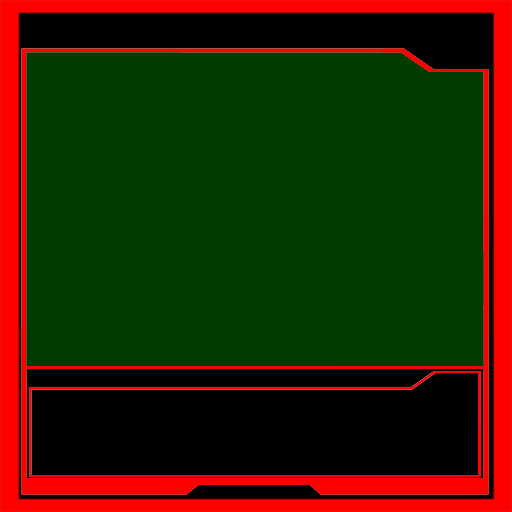
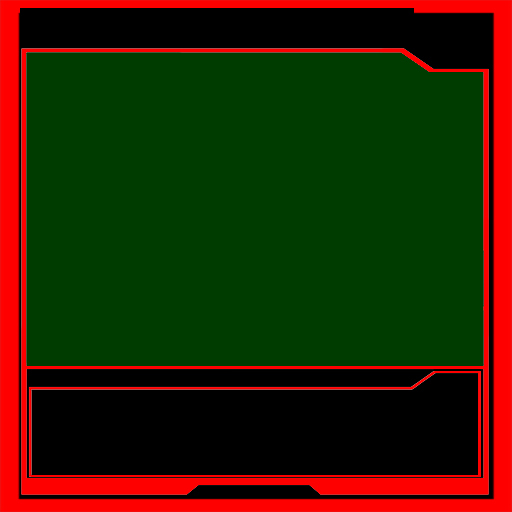
fix: align rarity shading with Rush Duel frames

Changed region(s): [[0.0312, 0.0, 0.8125, 0.0312]]

diff --git a/rarity_shaders.py b/rarity_shaders.py
@@ -1,0 +1,221 @@
+"""Apply Rush Duel rarity title bounds and attribute material mappings.
+
+DXBC uses MD5 with different final-block padding. Format reference:
+https://github.com/wine-mirror/wine/blob/master/libs/vkd3d/libs/vkd3d-shader/checksum.c
+This implementation checks every original checksum before making any change.
+"""
+
+import argparse
+import ctypes
+import hashlib
+import math
+import struct
+from pathlib import Path
+
+import UnityPy
+from UnityPy.helpers import CompressionHelper
+
+
+def dxbc_checksum(code):
+    payload = code[20:]
+    size = len(payload)
+    whole = size // 64 * 64
+    tail = payload[whole:] + b"\x80"
+    if len(tail) > 56:
+        blocks = payload[:whole] + tail.ljust(64, b"\0")
+        final = bytes(56)
+    else:
+        blocks = payload[:whole]
+        final = tail.ljust(56, b"\0")
+    blocks += struct.pack("<I", size * 8) + final + struct.pack("<I", (size * 2) | 1)
+    state = [0x67452301, 0xEFCDAB89, 0x98BADCFE, 0x10325476]
+    rotations = [7, 12, 17, 22] * 4 + [5, 9, 14, 20] * 4 + [4, 11, 16, 23] * 4 + [6, 10, 15, 21] * 4
+    constants = [int(abs(math.sin(i + 1)) * 2**32) for i in range(64)]
+    for offset in range(0, len(blocks), 64):
+        words = struct.unpack_from("<16I", blocks, offset)
+        a, b, c, d = state
+        for i in range(64):
+            if i < 16:
+                f, g = (b & c) | (~b & d), i
+            elif i < 32:
+                f, g = (d & b) | (~d & c), (5 * i + 1) % 16
+            elif i < 48:
+                f, g = b ^ c ^ d, (3 * i + 5) % 16
+            else:
+                f, g = c ^ (b | ~d), (7 * i) % 16
+            value = (a + f + constants[i] + words[g]) & 0xFFFFFFFF
+            value = ((value << rotations[i]) | (value >> (32 - rotations[i]))) & 0xFFFFFFFF
+            a, d, c, b = d, c, b, (b + value) & 0xFFFFFFFF
+        state = [(x + y) & 0xFFFFFFFF for x, y in zip(state, (a, b, c, d))]
+    return struct.pack("<4I", *state)
+
+
+def validate_shader(code):
+    """Ask the Windows shader compiler to parse and validate the new container."""
+    compiler = ctypes.WinDLL("d3dcompiler_47")
+    strip = compiler.D3DStripShader
+    strip.argtypes = [ctypes.c_void_p, ctypes.c_size_t, ctypes.c_uint, ctypes.POINTER(ctypes.c_void_p)]
+    strip.restype = ctypes.c_long
+    output = ctypes.c_void_p()
+    buffer = ctypes.create_string_buffer(code)
+    status = strip(buffer, len(code), 0, ctypes.byref(output))
+    if status < 0:
+        raise ValueError(f"Windows rejected shader container: 0x{status & 0xFFFFFFFF:08x}")
+    table = ctypes.cast(output, ctypes.POINTER(ctypes.POINTER(ctypes.c_void_p))).contents
+    ctypes.WINFUNCTYPE(ctypes.c_uint, ctypes.c_void_p)(table[2])(output)
+
+
+def patch_programs(blob):
+    changes = (
+        # The finish was limited to UV 0.05..0.95, clipping the raised capitals.
+        (struct.pack("<2f", -0.9, -0.9), struct.pack("<2f", -0.98, -0.98)),
+        # Name colour mask: keep its bottom at .89, extend its top from .952 to .99.
+        (struct.pack("<2f", 0.054, -0.421), struct.pack("<2f", 0.054, -0.44)),
+    )
+    result = bytearray(blob)
+    position = count = 0
+    while True:
+        position = blob.find(b"DXBC", position)
+        if position < 0:
+            break
+        size = struct.unpack_from("<I", blob, position + 24)[0]
+        code = blob[position:position + size]
+        if not size or len(code) != size:
+            raise ValueError("Invalid shader program length")
+        if changes[0][0] in code:
+            if dxbc_checksum(code) != code[4:20]:
+                raise ValueError("Original shader checksum mismatch")
+            for old, new in changes:
+                if code.count(old) != 1:
+                    raise ValueError("Unexpected Shine shader instructions; refusing to patch")
+                code = code.replace(old, new)
+            # The 3D compiler places the Y bound in register Z instead of Y.
+            height_patterns = (
+                (struct.pack("<2f", -0.757, -0.062), struct.pack("<2f", -0.757, -0.1)),
+                (struct.pack("<3f", -0.757, 0, -0.062), struct.pack("<3f", -0.757, 0, -0.1)),
+            )
+            matches = [(old, new) for old, new in height_patterns if old in code]
+            if len(matches) != 1 or code.count(matches[0][0]) != 1:
+                raise ValueError("Unexpected title height instruction")
+            code = code.replace(*matches[0])
+            code = code[:4] + dxbc_checksum(code) + code[20:]
+            validate_shader(code)
+            result[position:position + size] = code
+            count += 1
+        elif struct.pack("<2f", -0.98, -0.98) in code:
+            # Reinstalling the assets must not fail or patch a second time.
+            if dxbc_checksum(code) != code[4:20] or struct.pack("<2f", 0.054, -0.44) not in code:
+                raise ValueError("Unexpected previously patched shader")
+            validate_shader(code)
+            count += 1
+        position += size
+    if not count:
+        raise ValueError("No expected title clipping instructions found")
+    return bytes(result), count
+
+
+def calibrate_attribute(original):
+    """Fit the 96x74 red glyph to the 119x92 green target, including its offset."""
+    x, y, z, w = original
+    scale_x, scale_y = x * 96 / 119, y * 74 / 92
+    pixels_per_u, pixels_per_v = 96 * x / (179 / 256), 74 * y / (142 / 256)
+    center_x = 0.5 - z / x + 5.5 / pixels_per_u - (0.5 / 256) * (1 / scale_x - 1 / x)
+    center_y = 0.5 - w / y - 4 / pixels_per_v - (5 / 256) * (1 / scale_y - 1 / y)
+    return (scale_x, scale_y, (0.5 - center_x) * scale_x, (0.5 - center_y) * scale_y)
+
+
+def attribute_mapping(current, original):
+    corrected = calibrate_attribute(original)
+    def matches(a, b):
+        return all(abs(x - y) < 0.00005 for x, y in zip(a, b))
+    if not matches(current, original) and not matches(current, corrected):
+        raise ValueError(f"Unexpected attribute mapping: {current}")
+    return corrected
+
+
+def patch_shader_assets(env, required=False):
+    patched = []
+    title_shaders = []
+    attribute_assets = []
+    for obj in env.objects:
+        if obj.type.name == "Material":
+            material = obj.read()
+            if material.m_Name not in ("ShineStyle", "RoyalStyle"):
+                continue
+            for key, value in material.m_SavedProperties.m_Colors:
+                if key != "_AttributeSize_Pos":
+                    continue
+                current = (value.r, value.g, value.b, value.a)
+                value.r, value.g, value.b, value.a = attribute_mapping(current, (10.64, 14.87, -4.048, -6.2))
+                material.save()
+                patched.append(material.m_Name)
+                attribute_assets.append(material.m_Name)
+                print(f"{material.m_Name}: saved attribute mapping {(value.r, value.g, value.b, value.a)}")
+            continue
+        if obj.type.name != "Shader":
+            continue
+        shader = obj.read()
+        name = shader.m_ParsedForm.m_Name
+        if name in ("Shader Graphs/ShineStyleUI", "Shader Graphs/ShineStyle3D",
+                    "Shader Graphs/RoyalStyleUI", "Shader Graphs/RoyalStyle3D"):
+            for prop in shader.m_ParsedForm.m_PropInfo.m_Props:
+                if prop.m_Name != "_AttributeSize_Pos":
+                    continue
+                fields = [f"m_DefValue_{i}_" for i in range(4)]
+                current = tuple(getattr(prop, field) for field in fields)
+                corrected = attribute_mapping(current, (9.85, 13.9, -3.7, -5.81))
+                for field, value in zip(fields, corrected):
+                    setattr(prop, field, value)
+                shader.save()
+                patched.append(name)
+                attribute_assets.append(name)
+                print(f"{name}: saved default attribute mapping {corrected}")
+        if name not in ("Shader Graphs/ShineStyleUI", "Shader Graphs/ShineStyle3D"):
+            continue
+        if shader.platforms != [4] or len(shader.offsets[0]) != 1:
+            raise ValueError(f"Unsupported shader platforms: {name}")
+        start = shader.offsets[0][0]
+        length = shader.compressedLengths[0][0]
+        raw = CompressionHelper.decompress_lz4(bytes(shader.compressedBlob)[start:start + length],
+                                             shader.decompressedLengths[0][0])
+        corrected, count = patch_programs(raw)
+        compressed = CompressionHelper.compress_lz4(corrected)
+        shader.compressedBlob = compressed
+        shader.offsets = [[0]]
+        shader.compressedLengths = [[len(compressed)]]
+        shader.decompressedLengths = [[len(corrected)]]
+        shader.save()
+        title_shaders.append(name)
+        print(f"{name}: verified title correction in {count} pixel shader variants")
+    if len(title_shaders) not in (0, 2) or (required and len(title_shaders) != 2):
+        raise ValueError(f"Expected two Shine shaders, found {title_shaders}")
+    if len(attribute_assets) not in (0, 6) or (required and len(attribute_assets) != 6):
+        raise ValueError(f"Expected six attribute mapping assets, found {attribute_assets}")
+    return patched
+
+
+def patch_bundle(source, output):
+    def fingerprint():
+        digest = hashlib.sha256()
+        with source.open("rb") as stream:
+            for block in iter(lambda: stream.read(1024 * 1024), b""):
+                digest.update(block)
+        return digest.hexdigest()
+    original_hash = fingerprint()
+    env = UnityPy.load(str(source))
+    patch_shader_assets(env, required=True)
+    if fingerprint() != original_hash:
+        raise ValueError("Source bundle changed while preparing the patch; run again against the latest file")
+    output.parent.mkdir(parents=True, exist_ok=True)
+    output.write_bytes(env.file.save())
+    output.with_suffix(output.suffix + ".source.sha256").write_text(original_hash, encoding="ascii")
+
+
+if __name__ == "__main__":
+    parser = argparse.ArgumentParser(description=__doc__)
+    parser.add_argument("source", type=Path)
+    parser.add_argument("output", type=Path)
+    args = parser.parse_args()
+    if args.source.resolve() == args.output.resolve():
+        parser.error("Source and output must differ")
+    patch_bundle(args.source, args.output)

diff --git a/asset_replacer.py b/asset_replacer.py
@@ -7,6 +7,7 @@ import UnityPy
 from UnityPy.enums import TextureFormat
 from PIL import Image
 import io
+from rarity_shaders import patch_shader_assets
 
 
 class AssetReplacerGUI:
@@ -209,6 +210,13 @@ class AssetReplacerGUI:
                             self.log(
                                 f"Warning: Replacement file not found: {replacement_path}"
                             )
+
+            # The title finish is clipped by shader instructions, independently
+            # of the PNG masks. Keep those bounds aligned with the Rush layout.
+            shader_patches = patch_shader_assets(env)
+            for shader_name in shader_patches:
+                self.log(f"Updated rarity shader/material: {shader_name}")
+            replaced_count += len(shader_patches)
 
             if replaced_count == 0:
                 self.log("No assets were replaced.")

diff --git a/README.md b/README.md
@@ -4,7 +4,8 @@ A simple Tkinter GUI application that replaces card frame assets in Yu-Gi-Oh! Ma
 
 ## Requirements
 
-- Python 3.7+
+- Windows (uses D3DCompiler 47 to validate patched shaders)
+- Python 3.8+
 - UnityPy
 - Pillow (PIL)
 
@@ -38,6 +39,7 @@ The application:
   - **Card Frame Assets**: Assets containing "card_frame" in the name
   - **Mask Assets**: Any assets matching filenames in the `res/mask` folder
 - Replaces matching assets with corresponding images from the `res` folder structure
+- Updates rarity shader title bounds and attribute mappings to match the Rush Duel layout
 - Asks for user confirmation to either:
   - Replace the original file (after creating a timestamped backup)
   - Save as a separate modified file
